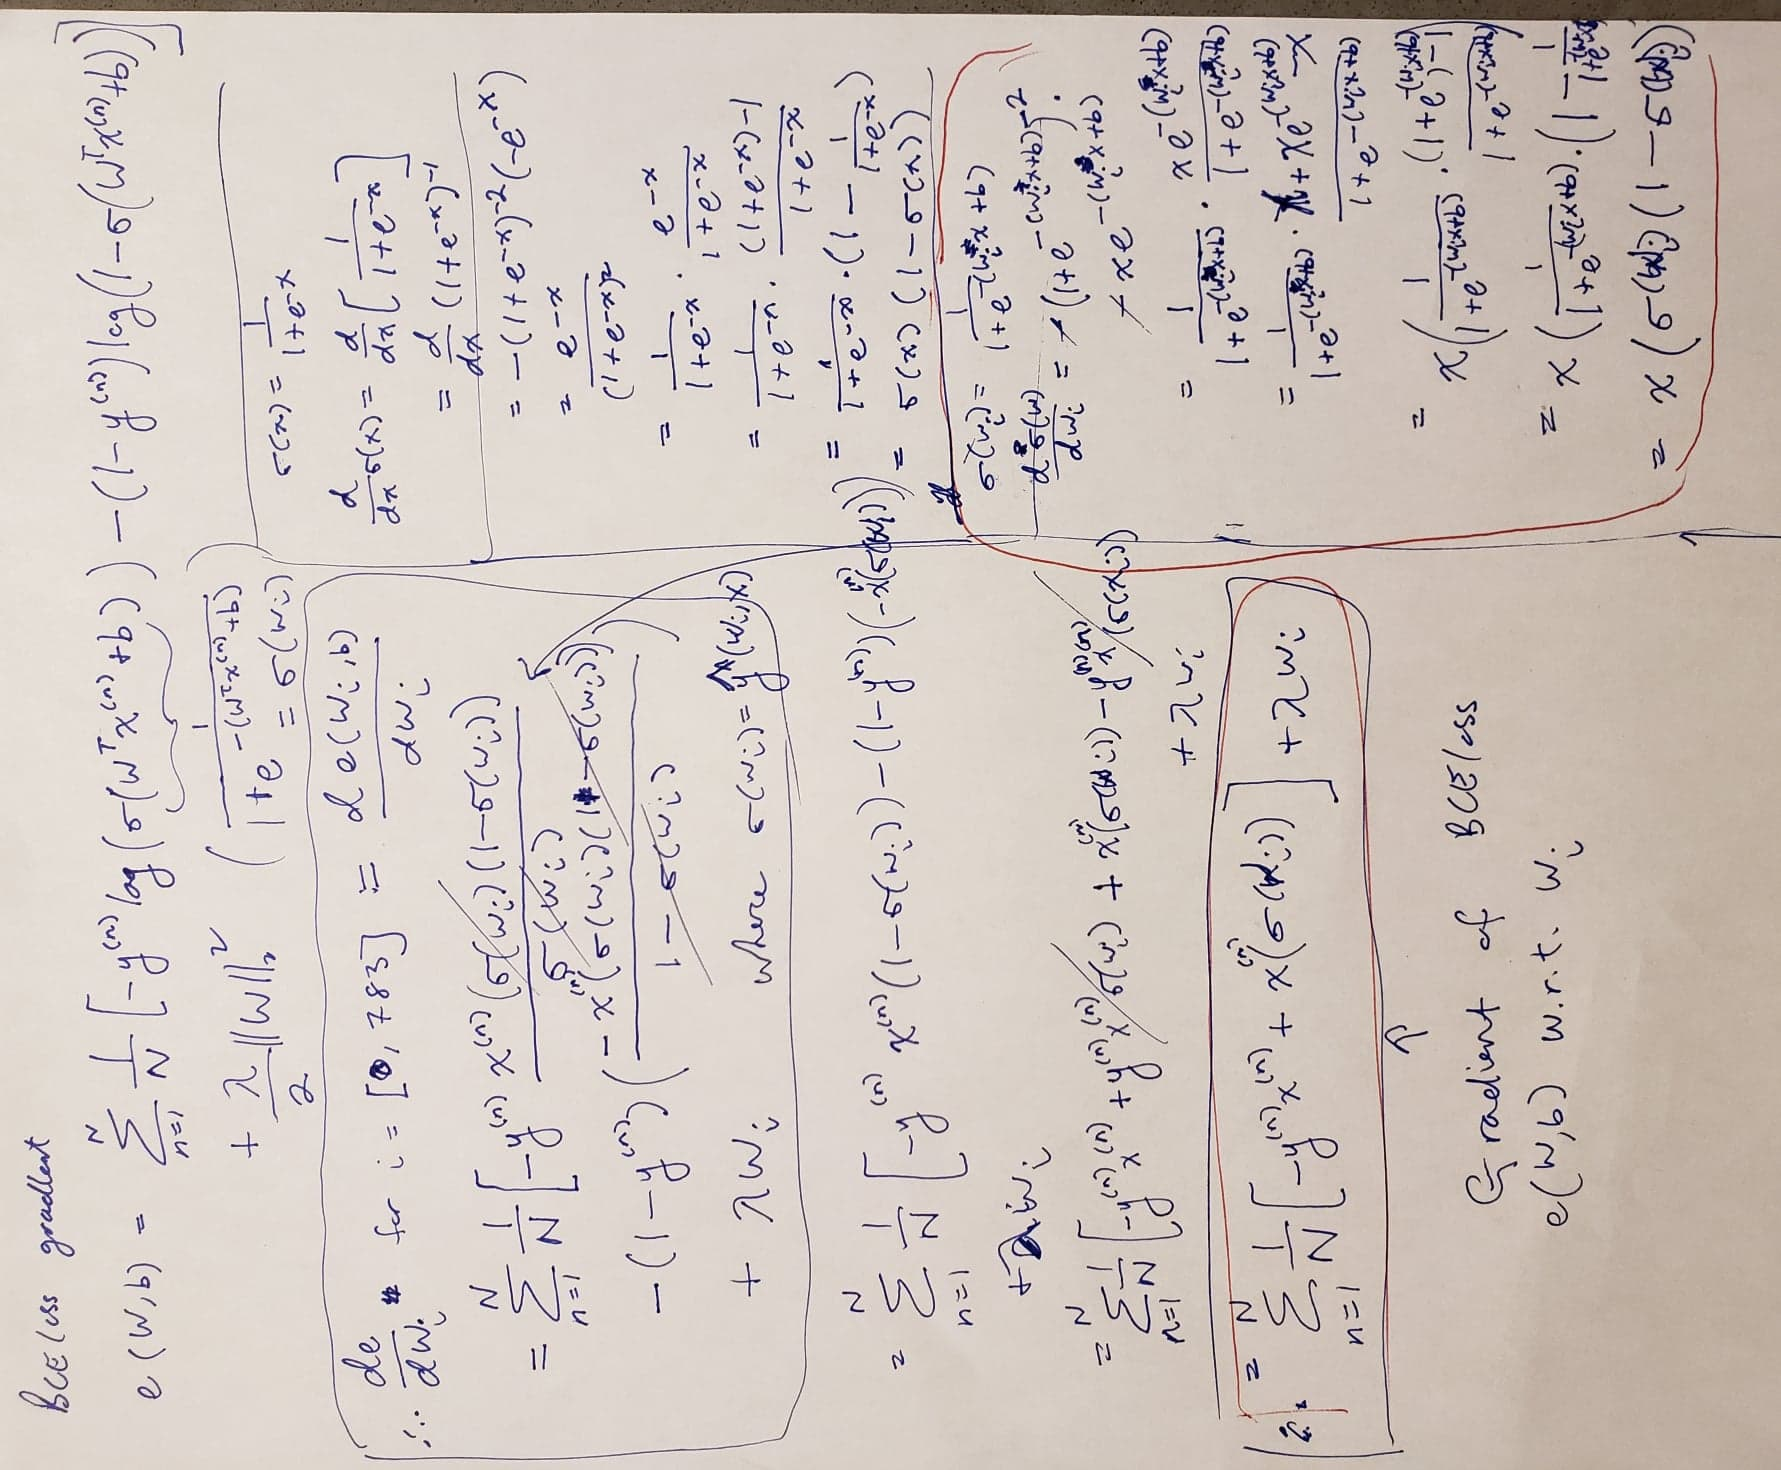
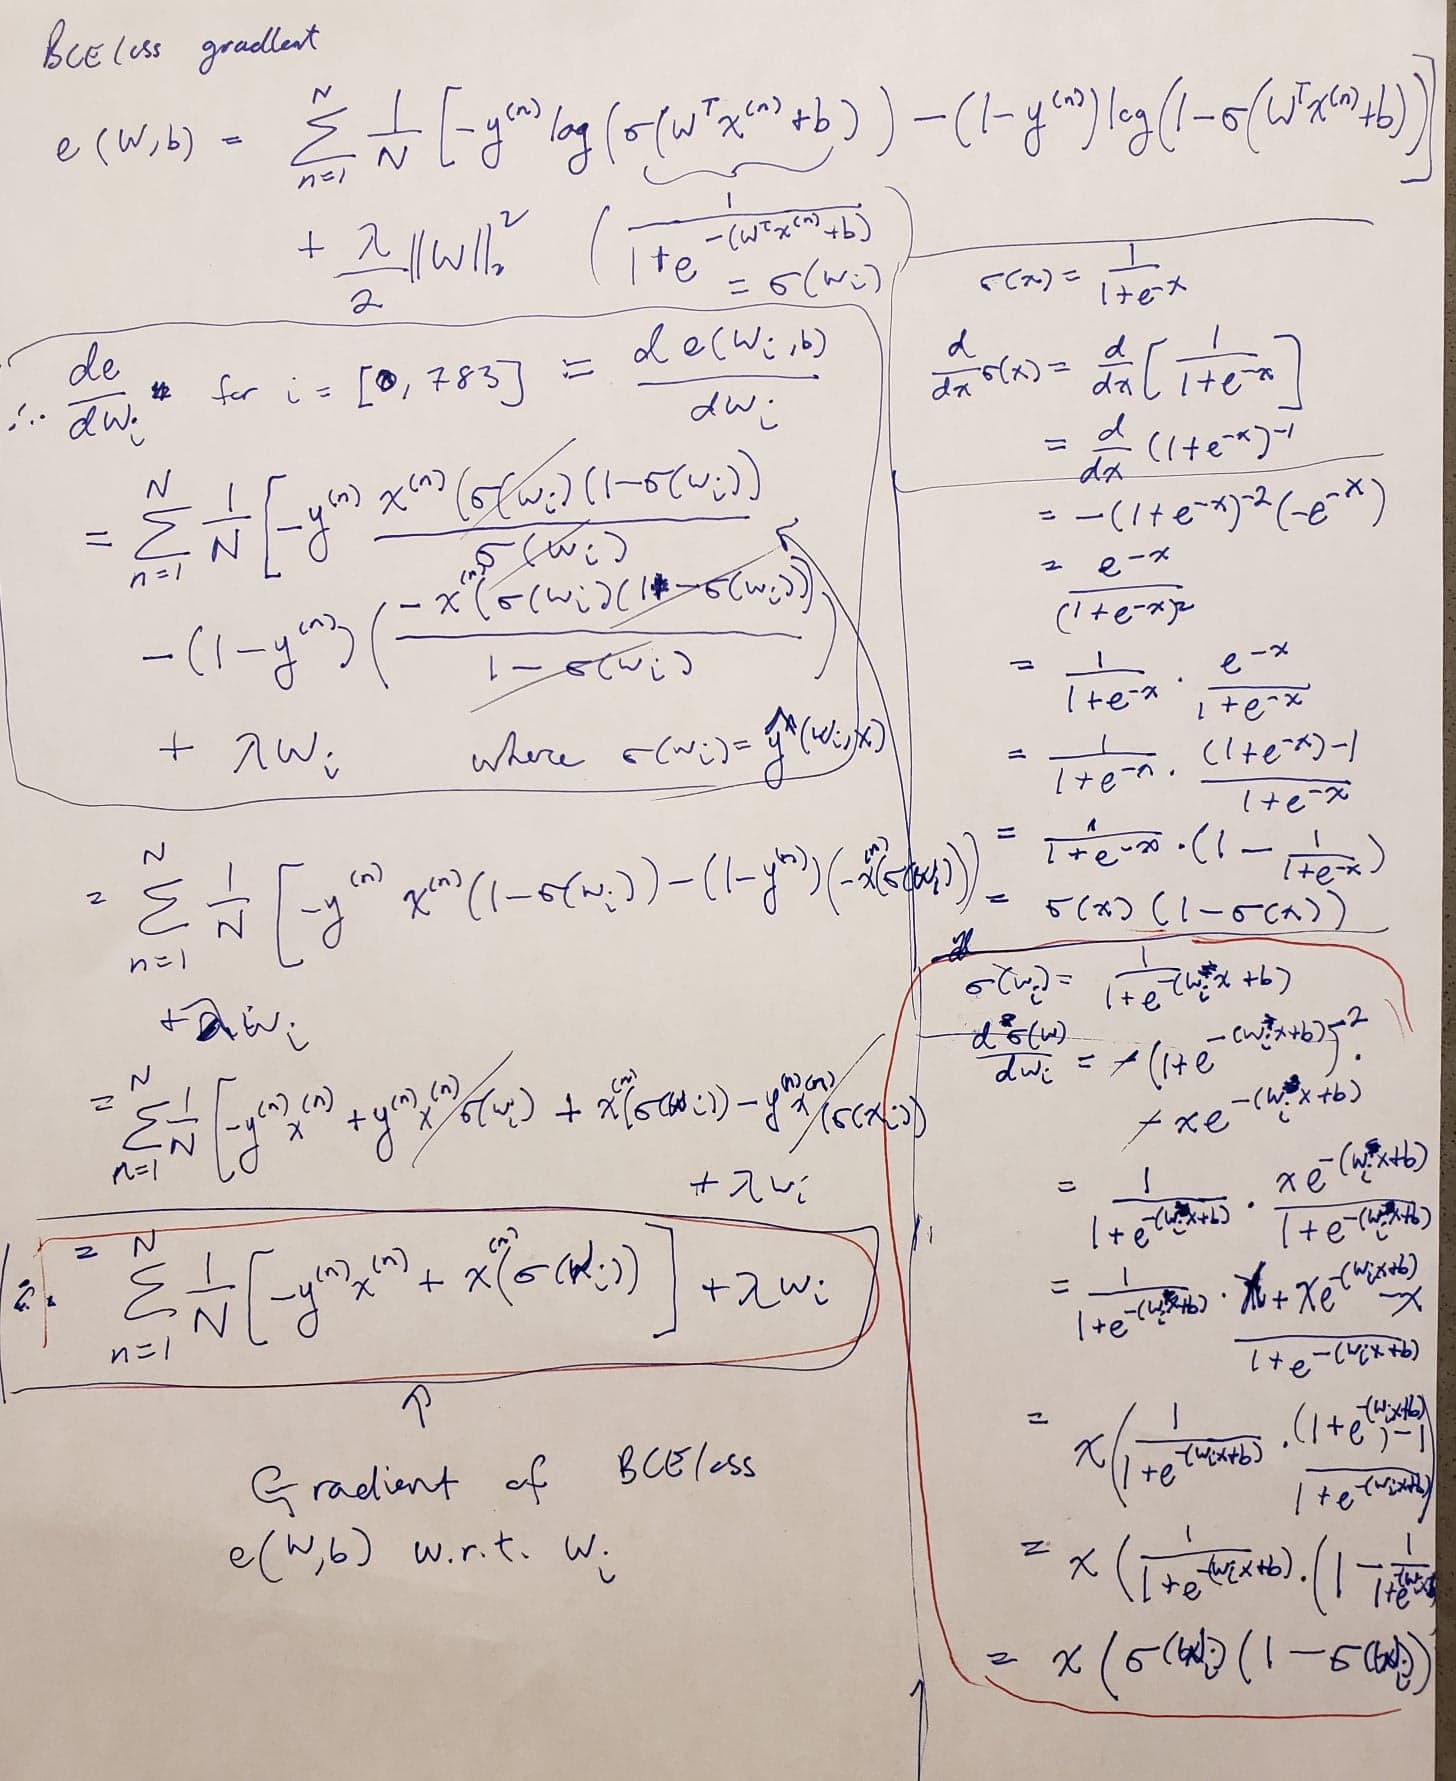
Added crossEntropyLoss and its gradient implementation rotated derivation image

diff --git a/a1/starter.py b/a1/starter.py
@@ -78,13 +78,19 @@ def gradMSE(W, b, x, y, reg):
     return [f_w, f_b]
 
 def crossEntropyLoss(W, b, x, y, reg):
-    pass
-    # Your implementation here
+    bceloss = -y * np.log(logistic_y_hat(W, x, b)) - (1 - y) * np.log(1 - logistic_y_hat(W, x, b))
+    weightdecay = reg / 2 * np.linalg.norm(W) ^ 2
+    return (bceloss / x.shape[0]).cumsum(axis=0) + weightdecay
 
 def gradCE(W, b, x, y, reg):
-    pass
-    # Your implementation here
+    grad_w = ((-y*x + x*logistic_y_hat(W, x, b))/x.shape[0]).cumsum(axis=0) + reg*W
+    # see derivation: https://github.com/Exquisition/ECE421-Projects/blob/master/a1/bceloss_gradient_derivation.jpg
+    # Can also verify using tf.gradients on w
+    grad_b = tf.gradients(crossEntropyLoss(W, b, x, y, reg), b)
+    return [grad_w, grad_b]
 
+def logistic_y_hat (W, x, b):
+    return tf.math.sigmoid(np.transpose(W) * x + b)
 
 def grad_descent(W, b, trainingData, trainingLabels, alpha, iterations, reg, EPS):
     '''
